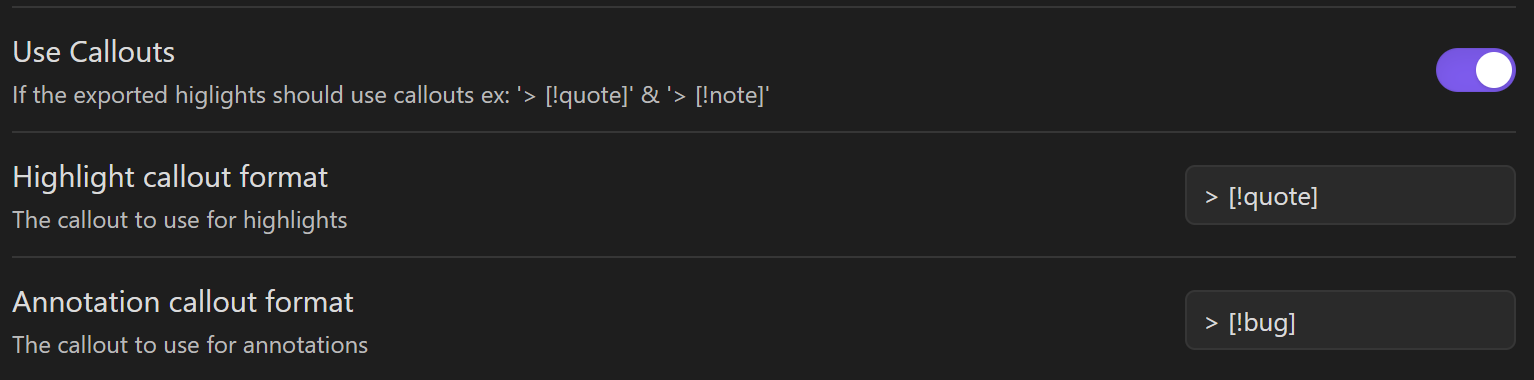
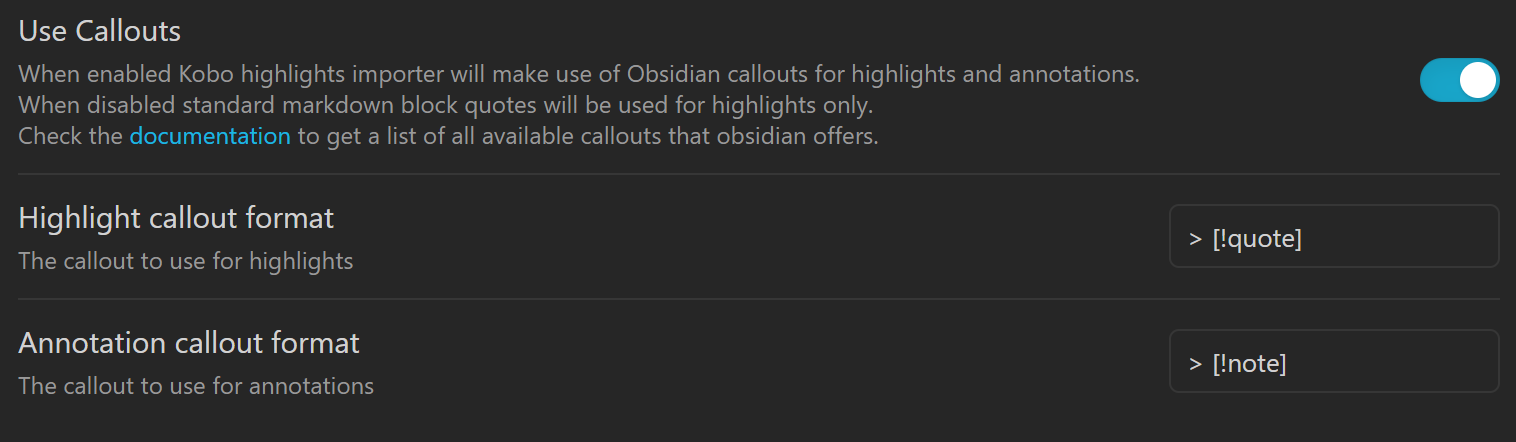
Updated description in settings and readme to include documentation and wrote some tests.

diff --git a/src/database/Highlight.test.ts b/src/database/Highlight.test.ts
@@ -5,11 +5,13 @@ import { binary } from '../binaries/sql-wasm';
 import { Repository } from '../database/repository';
 import { HighlightService } from './Highlight';
 import { Content } from './interfaces';
+import { KoboHighlightsImporterSettings } from "../settings/Settings";
 
 describe('HighlightService', async function () {
     let db: Database
     let repo: Repository
     let service: HighlightService
+    let settings: KoboHighlightsImporterSettings
 
     before(async function () {
         const SQLEngine = await SqlJs({
@@ -55,6 +57,7 @@ describe('HighlightService', async function () {
 
 ## Chapter Eight: Holden
 
+> [!quote]
 > “I guess I can’t be. How do you prove a negative?” — [[2022-08-05T20:46:41+00:00]]`
         )
     });
@@ -83,7 +86,137 @@ describe('HighlightService', async function () {
 
 ## Chapter Eight: Holden
 
+> [!quote]
 > “I guess I can’t be. How do you prove a negative?”`
+        )
+    });
+
+    it('fromMapToMarkdown with default annotation callout', async function () {
+        const bookmark = await repo.getBookmarkById("e7f8f92d-38ca-4556-bab8-a4d902e9c430")
+        if (!bookmark) {
+            chai.assert.isNotNull(bookmark)
+
+            return
+        }
+
+        const highlight = await service.createHilightFromBookmark(bookmark)
+        const map = service.convertToMap([highlight], true, "").get(highlight.content.bookTitle ?? "")
+
+        if (!map) {
+            chai.assert.isNotNull(map)
+
+            return
+        }
+
+        const markdown = service.fromMapToMarkdown(highlight.content.bookTitle ?? "", map)
+        chai.assert.deepEqual(
+            markdown,
+            `# Nemesis Games
+
+## Chapter Eight: Holden
+
+> [!quote]
+> “I guess I can’t be. How do you prove a negative?”
+
+> [!note]
+> this is an annotation`
+        )
+    });
+
+    it('fromMapToMarkdown without callouts', async function () {
+        const bookmark = await repo.getBookmarkById("e7f8f92d-38ca-4556-bab8-a4d902e9c430")
+        if (!bookmark) {
+            chai.assert.isNotNull(bookmark)
+
+            return
+        }
+
+        const highlight = await service.createHilightFromBookmark(bookmark)
+        const map = service.convertToMap([highlight], true, "").get(highlight.content.bookTitle ?? "")
+
+        if (!map) {
+            chai.assert.isNotNull(map)
+
+            return
+        }
+
+        this.settings.includeCallouts = false
+
+        const markdown = service.fromMapToMarkdown(highlight.content.bookTitle ?? "", map)
+        chai.assert.deepEqual(
+            markdown,
+            `# Nemesis Games
+
+## Chapter Eight: Holden
+
+> “I guess I can’t be. How do you prove a negative?”
+
+> this is an annotation`
+        )
+    });
+
+    it('fromMapToMarkdown with custom highlight callout', async function () {
+        const bookmark = await repo.getBookmarkById("e7f8f92d-38ca-4556-bab8-a4d902e9c430")
+        if (!bookmark) {
+            chai.assert.isNotNull(bookmark)
+
+            return
+        }
+
+        const highlight = await service.createHilightFromBookmark(bookmark)
+        const map = service.convertToMap([highlight], true, "").get(highlight.content.bookTitle ?? "")
+
+        if (!map) {
+            chai.assert.isNotNull(map)
+
+            return
+        }
+
+        this.settings.highlightCallout = "> [!bug]"
+
+        const markdown = service.fromMapToMarkdown(highlight.content.bookTitle ?? "", map)
+        chai.assert.deepEqual(
+            markdown,
+            `# Nemesis Games
+
+## Chapter Eight: Holden
+
+> [!bug]
+> “I guess I can’t be. How do you prove a negative?”`
+        )
+    });
+
+    it('fromMapToMarkdown with custom annotation callout', async function () {
+        const bookmark = await repo.getBookmarkById("e7f8f92d-38ca-4556-bab8-a4d902e9c430")
+        if (!bookmark) {
+            chai.assert.isNotNull(bookmark)
+
+            return
+        }
+
+        const highlight = await service.createHilightFromBookmark(bookmark)
+        const map = service.convertToMap([highlight], true, "").get(highlight.content.bookTitle ?? "")
+
+        if (!map) {
+            chai.assert.isNotNull(map)
+
+            return
+        }
+
+        this.settings.annotationCallout = "> [!bug]"
+
+        const markdown = service.fromMapToMarkdown(highlight.content.bookTitle ?? "", map)
+        chai.assert.deepEqual(
+            markdown,
+            `# Nemesis Games
+
+## Chapter Eight: Holden
+
+> [!quote]
+> “I guess I can’t be. How do you prove a negative?”
+
+> [!bug]
+> this is an annotation`
         )
     });
 

diff --git a/src/settings/Settings.ts b/src/settings/Settings.ts
@@ -99,9 +99,21 @@ export class KoboHighlightsImporterSettingsTab extends PluginSettingTab {
     }
 
     add_enable_callouts(): void {
+        const desc = document.createDocumentFragment();
+        desc.append("When enabled Kobo highlights importer will make use of Obsidian callouts for highlights and annotations.",
+        desc.createEl("br"),
+        "When disabled standard markdown block quotes will be used for highlights only.",
+          desc.createEl("br"),
+          "Check the ",
+          desc.createEl("a", {
+            href: "https://help.obsidian.md/How+to/Use+callouts",
+            text: "documentation"
+          }),
+        " to get a list of all available callouts that obsidian offers.");
+
         new Setting(this.containerEl)
             .setName("Use Callouts")
-            .setDesc(`If the exported higlights should use callouts ex: '> [!quote]' & '> [!note]'`)
+            .setDesc(desc)
             .addToggle((cb) => {
                 cb.setValue(this.plugin.settings.includeCallouts)
                     .onChange((toggle) => {

diff --git a/README.md b/README.md
@@ -51,10 +51,16 @@ tags:
 ![](./README_assets/step4.png)
 
 ## Obsidian Callouts
-You can turn off callouts to go back to normal markdown block quotes as well as change which callout to use for highlights and annotations.
+Kobo Highlight Importer uses Obsidian callouts for the highlights and annotations imported; Which can be configured individually. Turning this toggle off will fallback to the standard markdown block quotes for highlights only.
 
 ![](./README_assets/Callout_Settings.png)
 ![](./README_assets/Callouts.png)
+
+const desc = document.createDocumentFragment();
+    desc.append("When enabled Kobo highlights importer will make use of Obsidian callouts for highlights and annotations.",
+    desc.createEl("br"),
+
+Check the [documentation](https://help.obsidian.md/How+to/Use+callouts") to get a list of all available callouts that obsidian offers.
 
 ## Contributing
 
